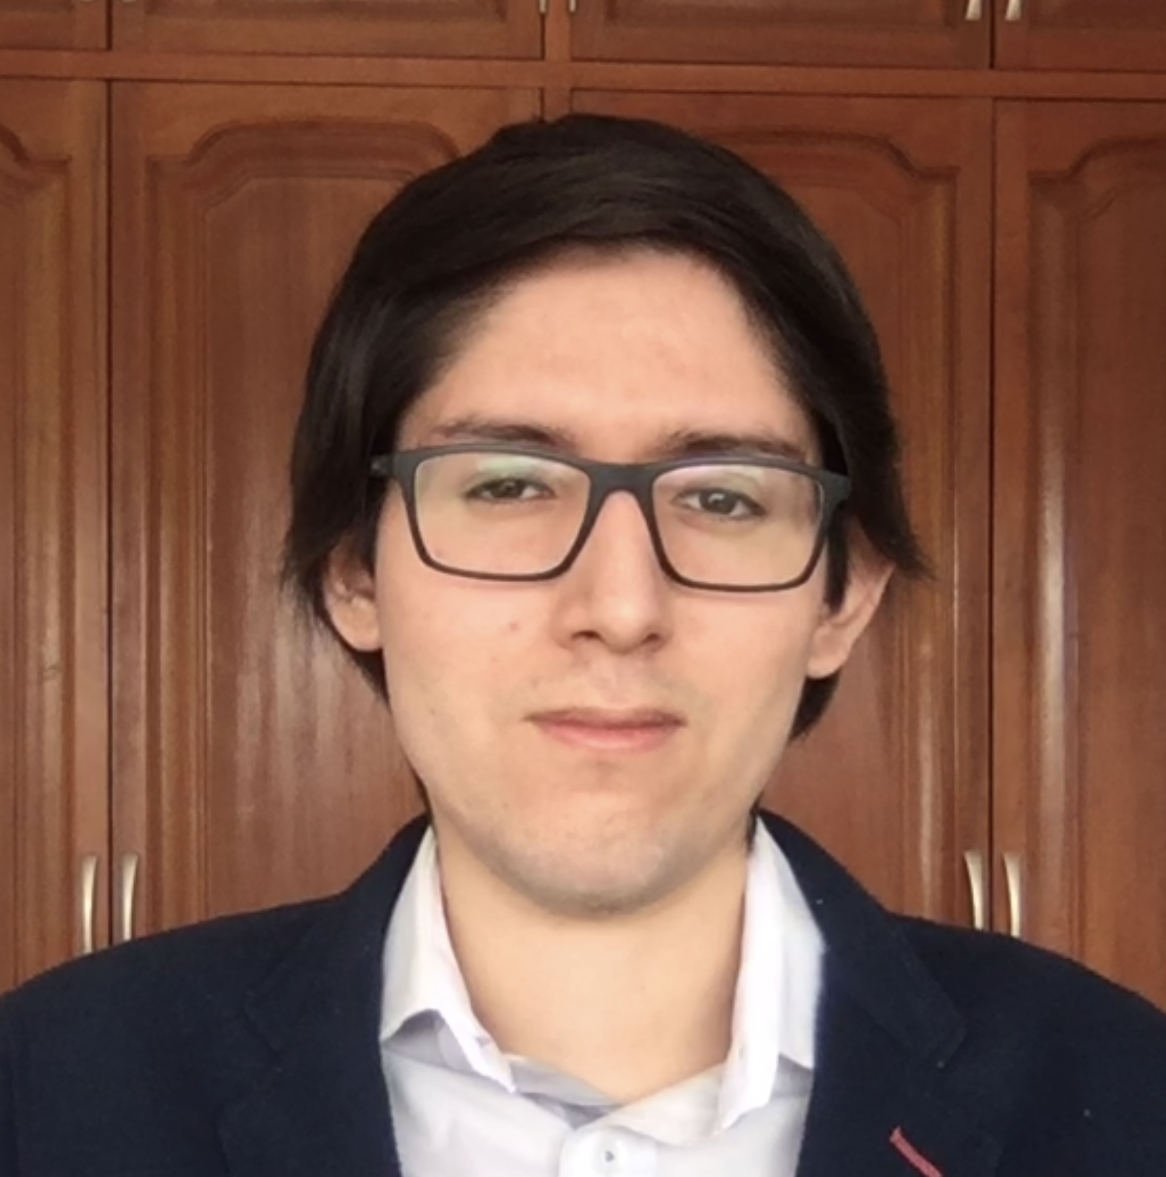
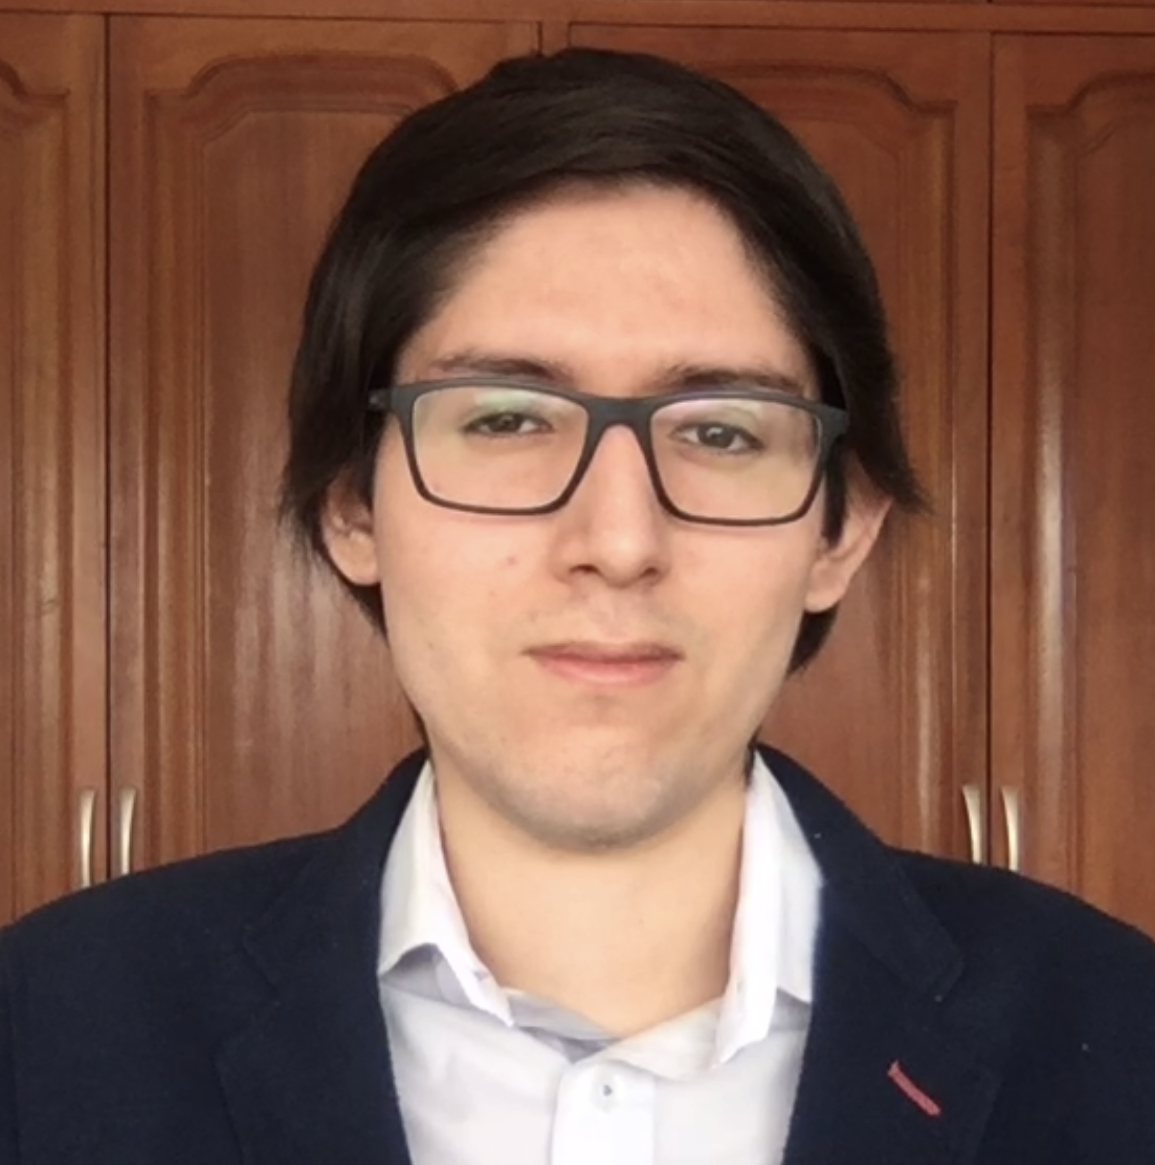
Add files via upload

diff --git a/index.html b/index.html
@@ -86,7 +86,7 @@
                       
                   </a>
           <a class="flex-column" style="min-width:25%; align-self: flex-start">
-                      <div class="image adaptive-image" style="background-image: url('img/d1Foto.png'); min-height: 200px; border-radius:50%" href="img/d1Foto.png" target="_blank"></div>
+                      <img class="image" src="img/d1Foto.png" style="border-radius: 50%; max-width: 450px; align-self: center">
                       
                   </a>
           
@@ -98,7 +98,7 @@
           <a class="flex-column" style="min-width:100%; align-self: flex-start">
               <d3 style="text-align: left; font-size: 30px" id="ResearchInterest"> Research Interests
               </d3>
-              <p class="text" style="text-align: justify; font-size: 20px; "> My main field of interest is aging research with a focus on rejuvenation strategies. Aging related health decline is the main risk factor to leading world diseases such as cancer, heart failure, Alzheimer, etc. Interventions targeting this biological process have not only accomplished to delay the aging process itself, but to reverse it. Among the latter, the most exciting to me are epigenetic reprogramming, elimination of senescent cells and restoration of young systemic factors.
+              <p class="text" style="text-align: justify; font-size: 20px; "> My main field of interest is aging research with a focus on rejuvenation strategies. Aging related health decline is the main risk factor to leading world diseases such as cancer, heart failure, Alzheimer, etc. Interventions targeting this biological process have not only accomplished to delay the aging process itself, but to reverse it. Among the latter, the most exciting to me are epigenetic reprogramming, elimination of senescent cells and restoration of young systemic factors. Here are some recent examples of these subfields:
               </p>
               
                       
@@ -158,7 +158,7 @@
           <a class="flex-column" style="min-width:100%; align-self: flex-start">
               <d3 style="text-align: left; font-size: 30px" id="CareerGoals"> Career goals
               </d3>
-              <p class="text" style="text-align: justify; font-size: 20px; "> My principal long-term career goal is a tenured professor position at a R1 research intensive university. My interests and life goals align mainly with this job, but I find teaching intensive and research administration positions equally interesting. As in research, the process of taking the right decision and the journey itself is fulfilling to me, regardless of the immediate outcome. Here is my current general career plan with some ideal examples. 
+              <p class="text" style="text-align: justify; font-size: 20px; "> My principal long-term career goal is a tenured professor position at a R1 research intensive university. My interests and life goals align mainly with this job, but I find teaching intensive and research administration positions equally interesting. As in research, the process of taking the right decisions and the journey itself is fulfilling to me, regardless of the immediate outcome. Here is my current general career plan with some ideal examples. 
               </p>
               
                       
